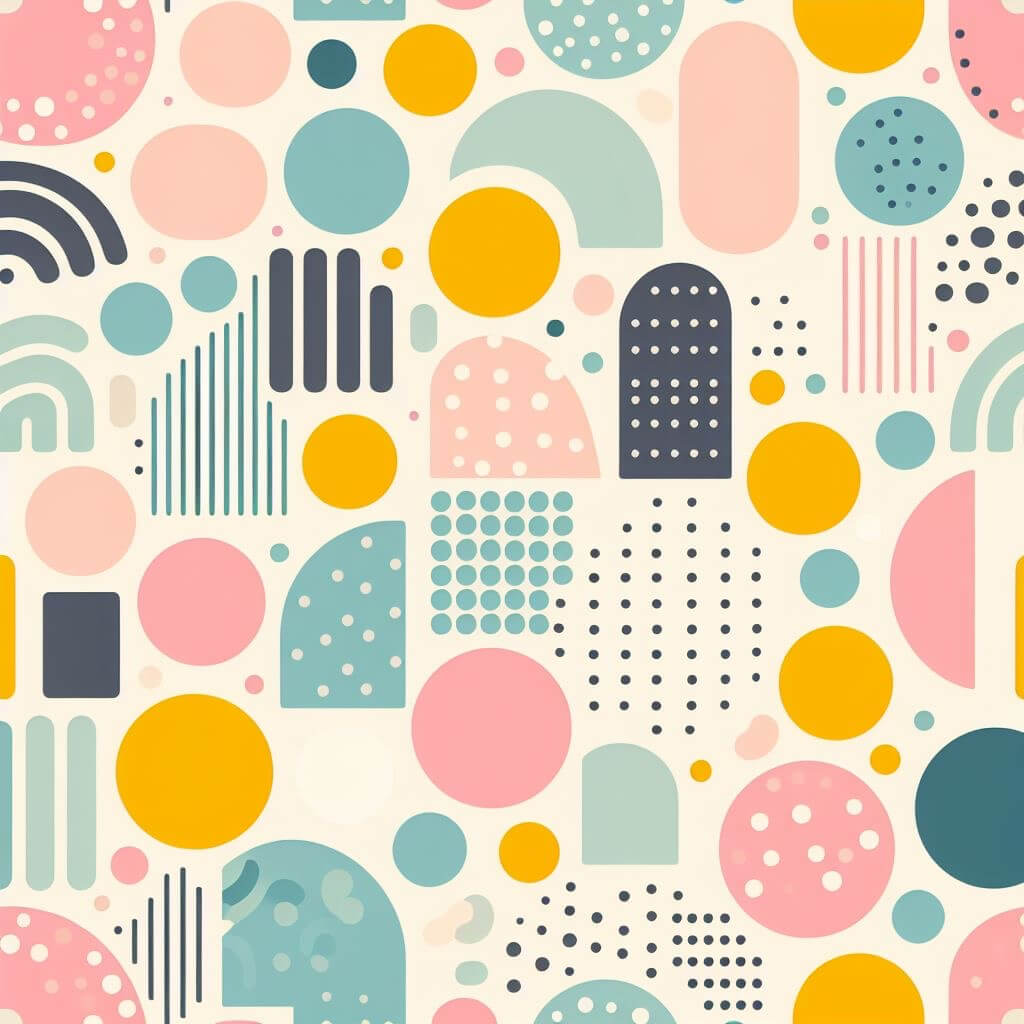
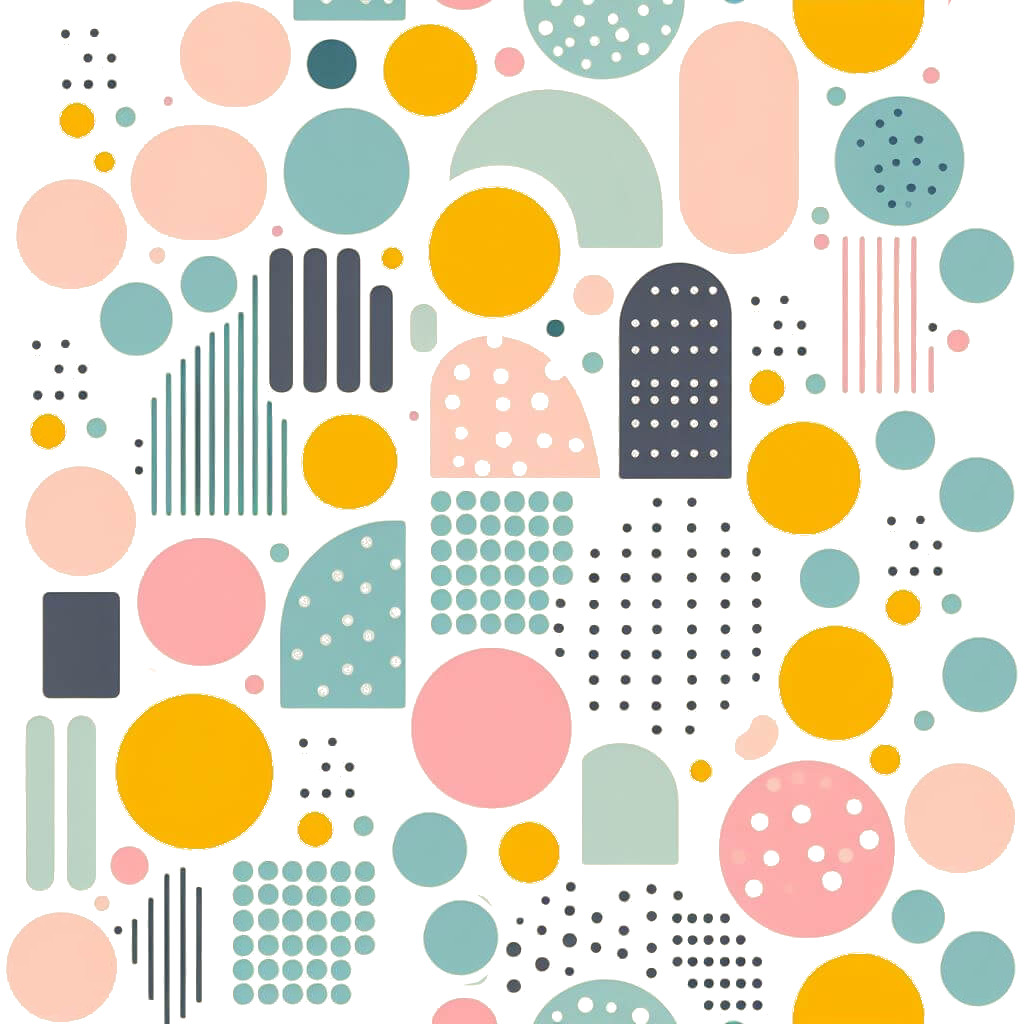
change-background

diff --git a/styles.css b/styles.css
@@ -57,9 +57,9 @@ h3 {
 /* Background Styles */
 
 .background {
-    background-image: linear-gradient(to bottom, rgba(255, 255, 255, 0), var(--white)), url('images/000-fondo.jpeg');
-    opacity: 0.15;
-    background-size: cover;
+    background-image: linear-gradient(to top, rgba(255, 255, 255, 0), var(--white)), url('images/000-fondo.jpeg');
+    opacity: 0.1;
+    background-size:contain;
     background-attachment: fixed; 
     top: 100dvh;
     left: 0;
